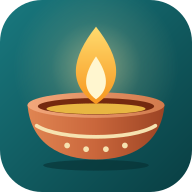
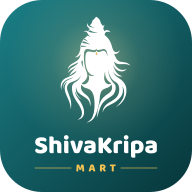
Add files via upload

Changed region(s): [[0.125, 0.0938, 0.875, 0.9062]]

diff --git a/index.html b/index.html
@@ -45,15 +45,19 @@ body{margin:0;background:var(--paper);color:var(--ink);font-family:'Anek Malayal
 #shell .note ol{margin:.375rem 0 .5rem;padding-left:1.375rem}
 #shell .note li{margin:.25rem 0}
 #shell .note .said{margin-top:.5rem;color:var(--muted);overflow-wrap:anywhere}
-#shell .wait{display:flex;flex-direction:column;gap:.75rem;color:var(--muted);font-weight:600}
-#shell .bar{position:relative;height:.75rem;border-radius:.375rem;background:var(--sunk);border:1px solid var(--line);overflow:hidden}
-#shell .bar i{position:absolute;top:0;bottom:0;left:-45%;width:45%;border-radius:.375rem;background:var(--teal);animation:shellslide 1.15s ease-in-out infinite}
+/* opening the shop: the icon, one loading bar under it. The sizes are in px so that nothing moves when the app's own screens take over. */
+#shell .wait{display:flex;flex-direction:column;align-items:center;gap:22px;color:var(--muted);font-weight:600;font-size:15.2px;text-align:center}
+#shell .appicon{display:block;width:132px;height:132px;border-radius:22%;box-shadow:0 10px 28px rgba(7,54,58,.32);animation:shellpop .5s cubic-bezier(.2,1.5,.4,1) both,shelllive 2.4s ease-in-out .5s infinite}
+@keyframes shellpop{from{transform:scale(.35);opacity:0}to{transform:none;opacity:1}}
+@keyframes shelllive{50%{transform:scale(1.045)}}
+#shell .bar{position:relative;width:260px;max-width:80%;height:10px;border-radius:5px;background:var(--sunk);border:1px solid var(--line);overflow:hidden}
+#shell .bar i{position:absolute;top:0;bottom:0;left:-45%;width:45%;border-radius:5px;background:var(--teal);animation:shellslide 1.15s ease-in-out infinite}
 @keyframes shellslide{from{left:-45%}to{left:100%}}
-@media (prefers-reduced-motion:reduce){#shell .bar i{animation:none;left:0;width:100%;opacity:.55}}
+@media (prefers-reduced-motion:reduce){#shell .appicon{animation:none}#shell .bar i{animation:none;left:0;width:100%;opacity:.55}}
 </style>
 </head>
 <body>
-<div id="shell"><div class="card"><div><div class="name">ShivaKripa Mart</div></div><div class="border"></div><div class="wait" role="status"><span>Opening the shop…</span><div class="bar"><i></i></div></div></div></div>
+<div id="shell"><div class="card"><div class="wait" role="status"><img class="appicon" src="icon-192.png" srcset="icon-192.png 1x, icon-512.png 2x" alt="" width="132" height="132"><div class="bar"><i></i></div><span>Opening the shop…</span></div></div></div>
 <script>
 /* ShivaKripa Mart: the starter page.
 
@@ -67,7 +71,7 @@ body{margin:0;background:var(--paper);color:var(--ink);font-family:'Anek Malayal
   'use strict';
   var LINK = 'skm_api', SCREENS = 'skm_screens', VER = 'skm_screens_v', OLD = 'skm_screens_old', OLDV = 'skm_screens_old_v', BAD = 'skm_screens_bad';
   var KEEP = { skm_size: 1, skm_theme: 1 };
-  var d = document, w = window, running = false, touched = false, lastAsk = 0, asking = null;
+  var d = document, w = window, running = false, touched = false, lastAsk = 0, asking = null, born = Date.now();
 
   function get(k) { try { return localStorage.getItem(k); } catch (e) { return null; } }
   function put(k, v) { try { if (v === null) localStorage.removeItem(k); else localStorage.setItem(k, v); return true; } catch (e) { return false; } }
@@ -151,6 +155,8 @@ body{margin:0;background:var(--paper);color:var(--ink);font-family:'Anek Malayal
     each(scripts, function (s) { if (s.parentNode) s.parentNode.removeChild(s); });
     var old = d.getElementById('shell-css'); if (old) old.parentNode.removeChild(old);
     if (doc.title) d.title = doc.title;
+    /* the icon has already popped up on this page: the screens show it without doing that a second time */
+    if (d.querySelector('#shell .appicon') && Date.now() - born > 450) d.documentElement.setAttribute('data-splashed', '1');
     /* what the screens say about <html> and <body> (language, classes) is taken over; this page's own install details stay */
     each(doc.documentElement.attributes, function (a) { d.documentElement.setAttribute(a.name, a.value); });
     each(doc.body.attributes, function (a) { d.body.setAttribute(a.name, a.value); });
@@ -198,7 +204,7 @@ body{margin:0;background:var(--paper);color:var(--ink);font-family:'Anek Malayal
     return el;
   }
   function head() { return '<div><div class="name">' + esc(get('skm_shop') || 'ShivaKripa Mart') + '</div></div><div class="border"></div>'; }
-  function loader() { shell().innerHTML = '<div class="card">' + head() + '<div class="wait" role="status"><span>Opening the shop…</span><div class="bar"><i></i></div></div></div>'; }
+  function loader() { shell().innerHTML = '<div class="card"><div class="wait" role="status"><img class="appicon" src="icon-192.png" srcset="icon-192.png 1x, icon-512.png 2x" alt="" width="132" height="132"><div class="bar"><i></i></div><span>Opening the shop…</span></div></div>'; }
   var STEPS = '<ol><li><b>Deploy</b>, then <b>Manage deployments</b>.</li><li>The pencil, then <b>Who has access: Anyone</b>.</li><li><b>Version: New version</b>, then <b>Deploy</b>.</li></ol>';
   /* Why did the shop link not hand over the screens? Gives the words to show. */
   function why(link, e) {
